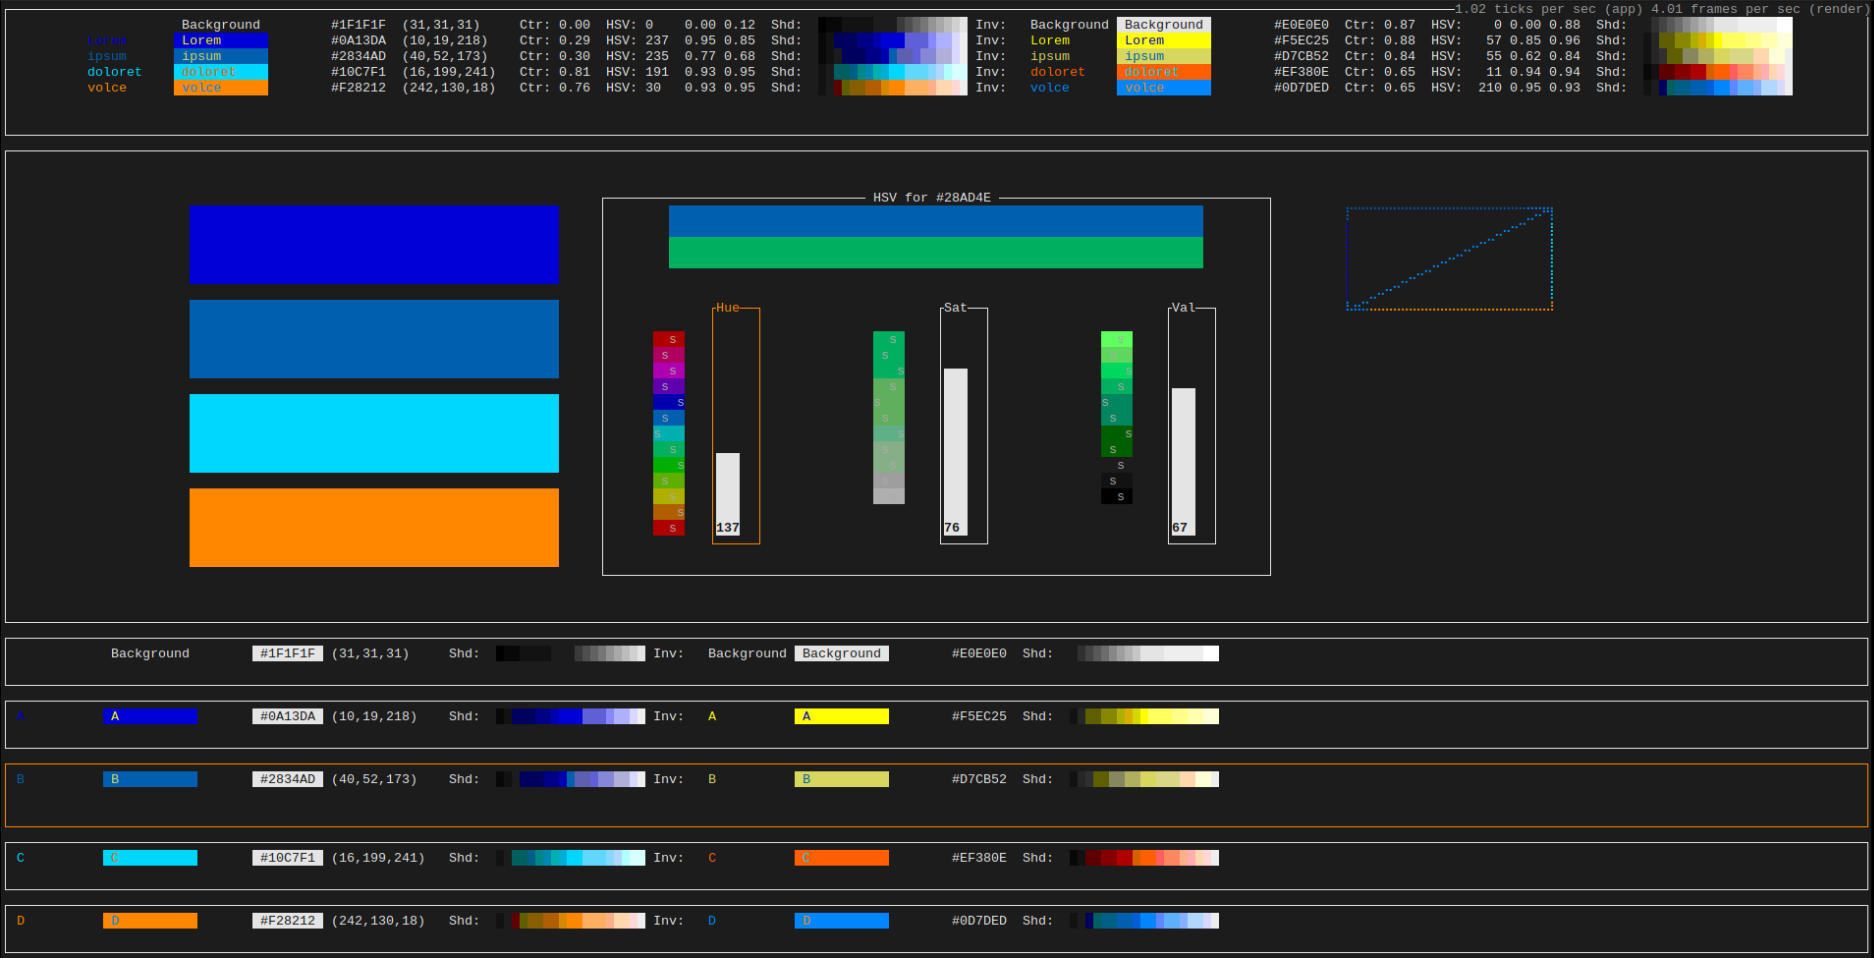
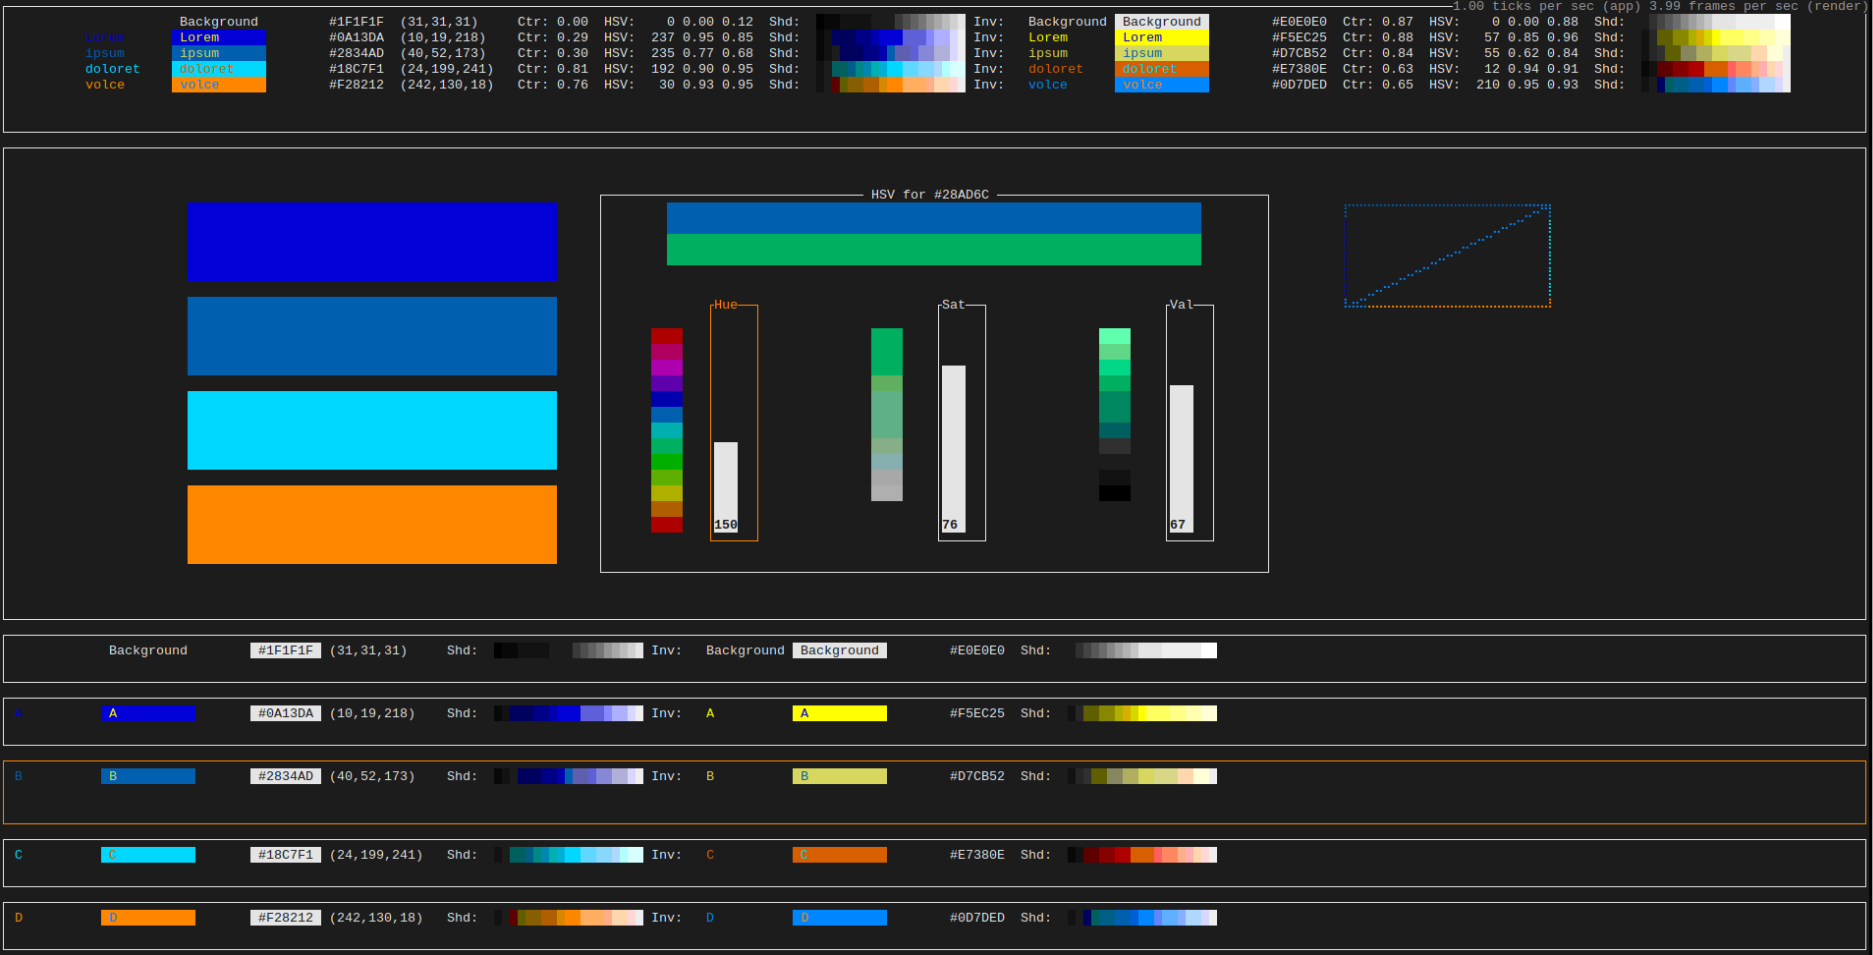
-sss

diff --git a/src/components/home/ui/hsv.rs b/src/components/home/ui/hsv.rs
@@ -9,19 +9,19 @@ pub fn create_hue_column(color: &ColorRGB) -> Paragraph {
     let p: Vec<Line> = vec![
 			Line::from(Span::styled("    ", Style::new())),
 			Line::from(Span::styled("    ", Style::new())),
-			Line::from(Span::styled("  s ", Style::new().bg(color.with_hue(359.0).color))),
-			Line::from(Span::styled(" s  ", Style::new().bg(color.with_hue(330.0).color))),
-			Line::from(Span::styled("  s ", Style::new().bg(color.with_hue(300.0).color))),
-			Line::from(Span::styled(" s  ", Style::new().bg(color.with_hue(270.0).color))),
-			Line::from(Span::styled("   s", Style::new().bg(color.with_hue(240.0).color))),
-			Line::from(Span::styled(" s  ", Style::new().bg(color.with_hue(210.0).color))),
-			Line::from(Span::styled("s   ", Style::new().bg(color.with_hue(180.0).color))),
-			Line::from(Span::styled("  s ", Style::new().bg(color.with_hue(150.0).color))),
-			Line::from(Span::styled("   s", Style::new().bg(color.with_hue(120.0).color))),
-			Line::from(Span::styled(" s  ", Style::new().bg(color.with_hue(90.0).color))),
-			Line::from(Span::styled("  s ", Style::new().bg(color.with_hue(60.0).color))),
-			Line::from(Span::styled("   s", Style::new().bg(color.with_hue(30.0).color))),
-			Line::from(Span::styled("  s ", Style::new().bg(color.with_hue(0.0).color))),
+			Line::from(Span::styled("    ", Style::new().bg(color.with_hue(359.0).color))),
+			Line::from(Span::styled("    ", Style::new().bg(color.with_hue(330.0).color))),
+			Line::from(Span::styled("    ", Style::new().bg(color.with_hue(300.0).color))),
+			Line::from(Span::styled("    ", Style::new().bg(color.with_hue(270.0).color))),
+			Line::from(Span::styled("    ", Style::new().bg(color.with_hue(240.0).color))),
+			Line::from(Span::styled("    ", Style::new().bg(color.with_hue(210.0).color))),
+			Line::from(Span::styled("    ", Style::new().bg(color.with_hue(180.0).color))),
+			Line::from(Span::styled("    ", Style::new().bg(color.with_hue(150.0).color))),
+			Line::from(Span::styled("    ", Style::new().bg(color.with_hue(120.0).color))),
+			Line::from(Span::styled("    ", Style::new().bg(color.with_hue(90.0).color))),
+			Line::from(Span::styled("    ", Style::new().bg(color.with_hue(60.0).color))),
+			Line::from(Span::styled("    ", Style::new().bg(color.with_hue(30.0).color))),
+			Line::from(Span::styled("    ", Style::new().bg(color.with_hue(0.0).color))),
     ];
     Paragraph::new(p)
 }
@@ -33,17 +33,17 @@ pub fn create_sat_column(color: &ColorRGB) -> Paragraph {
 	let p: Vec<Line> = vec![
 			Line::from(Span::styled("    ", Style::new())),
 			Line::from(Span::styled("    ", Style::new())),
-			Line::from(Span::styled("  s ", Style::new().bg(color.with_saturation(1.0).color))),
-			Line::from(Span::styled(" s  ", Style::new().bg(color.with_saturation(0.9).color))),
-			Line::from(Span::styled("   s", Style::new().bg(color.with_saturation(0.8).color))),
-			Line::from(Span::styled("  s ", Style::new().bg(color.with_saturation(0.7).color))),
-			Line::from(Span::styled("s   ", Style::new().bg(color.with_saturation(0.6).color))),
-			Line::from(Span::styled(" s  ", Style::new().bg(color.with_saturation(0.5).color))),
-			Line::from(Span::styled("   s", Style::new().bg(color.with_saturation(0.4).color))),
-			Line::from(Span::styled(" s  ", Style::new().bg(color.with_saturation(0.3).color))),
-			Line::from(Span::styled("  s ", Style::new().bg(color.with_saturation(0.2).color))),
-			Line::from(Span::styled(" s  ", Style::new().bg(color.with_saturation(0.1).color))),
-			Line::from(Span::styled("  s ", Style::new().bg(color.with_saturation(0.0).color))),
+			Line::from(Span::styled("    ", Style::new().bg(color.with_saturation(1.0).color))),
+			Line::from(Span::styled("    ", Style::new().bg(color.with_saturation(0.9).color))),
+			Line::from(Span::styled("    ", Style::new().bg(color.with_saturation(0.8).color))),
+			Line::from(Span::styled("    ", Style::new().bg(color.with_saturation(0.7).color))),
+			Line::from(Span::styled("    ", Style::new().bg(color.with_saturation(0.6).color))),
+			Line::from(Span::styled("    ", Style::new().bg(color.with_saturation(0.5).color))),
+			Line::from(Span::styled("    ", Style::new().bg(color.with_saturation(0.4).color))),
+			Line::from(Span::styled("    ", Style::new().bg(color.with_saturation(0.3).color))),
+			Line::from(Span::styled("    ", Style::new().bg(color.with_saturation(0.2).color))),
+			Line::from(Span::styled("    ", Style::new().bg(color.with_saturation(0.1).color))),
+			Line::from(Span::styled("    ", Style::new().bg(color.with_saturation(0.0).color))),
 	];
 	Paragraph::new(p)
 }
@@ -54,17 +54,17 @@ pub fn create_val_column(color: &ColorRGB) -> Paragraph {
 	let p: Vec<Line> = vec![
 			Line::from(Span::styled("    ", Style::new())),
 			Line::from(Span::styled("    ", Style::new())),
-			Line::from(Span::styled("  s ", Style::new().bg(color.with_value(1.0).color))),
-			Line::from(Span::styled(" s  ", Style::new().bg(color.with_value(0.9).color))),
-			Line::from(Span::styled("   s", Style::new().bg(color.with_value(0.8).color))),
-			Line::from(Span::styled("  s ", Style::new().bg(color.with_value(0.7).color))),
-			Line::from(Span::styled("s   ", Style::new().bg(color.with_value(0.6).color))),
-			Line::from(Span::styled(" s  ", Style::new().bg(color.with_value(0.5).color))),
-			Line::from(Span::styled("   s", Style::new().bg(color.with_value(0.4).color))),
-			Line::from(Span::styled(" s  ", Style::new().bg(color.with_value(0.3).color))),
-			Line::from(Span::styled("  s ", Style::new().bg(color.with_value(0.2).color))),
-			Line::from(Span::styled(" s  ", Style::new().bg(color.with_value(0.1).color))),
-			Line::from(Span::styled("  s ", Style::new().bg(color.with_value(0.0).color))),
+			Line::from(Span::styled("    ", Style::new().bg(color.with_value(1.0).color))),
+			Line::from(Span::styled("    ", Style::new().bg(color.with_value(0.9).color))),
+			Line::from(Span::styled("    ", Style::new().bg(color.with_value(0.8).color))),
+			Line::from(Span::styled("    ", Style::new().bg(color.with_value(0.7).color))),
+			Line::from(Span::styled("    ", Style::new().bg(color.with_value(0.6).color))),
+			Line::from(Span::styled("    ", Style::new().bg(color.with_value(0.5).color))),
+			Line::from(Span::styled("    ", Style::new().bg(color.with_value(0.4).color))),
+			Line::from(Span::styled("    ", Style::new().bg(color.with_value(0.3).color))),
+			Line::from(Span::styled("    ", Style::new().bg(color.with_value(0.2).color))),
+			Line::from(Span::styled("    ", Style::new().bg(color.with_value(0.1).color))),
+			Line::from(Span::styled("    ", Style::new().bg(color.with_value(0.0).color))),
 	];
 	Paragraph::new(p)
 }

diff --git a/src/components/home/ui.rs b/src/components/home/ui.rs
@@ -155,7 +155,7 @@ pub fn create_paragraph_line(text: String, color: ColorRGB, bkgcolor: ColorRGB) 
     ]);
     line.spans.push(Span::styled(format!(" Ctr: {:.2} ", get_contrast(&color, &bkgcolor)), Style::new().fg(bkgcolor.flip_rgb())));
     let _hsv = color.rgb_to_hsv();
-    let h = pad_to_length(format!("{:.0}", _hsv.0), 4);
+    let h = leftpad_to_length(format!("{:.0}", _hsv.0), 4);
     let s = pad_to_length(format!("{:.2}", _hsv.1), 4);
     let v = pad_to_length(format!("{:.2}", _hsv.2), 4 );
     let _hsv = pad_to_length(format!(" HSV: {} {} {} ", h, s, v),20);
